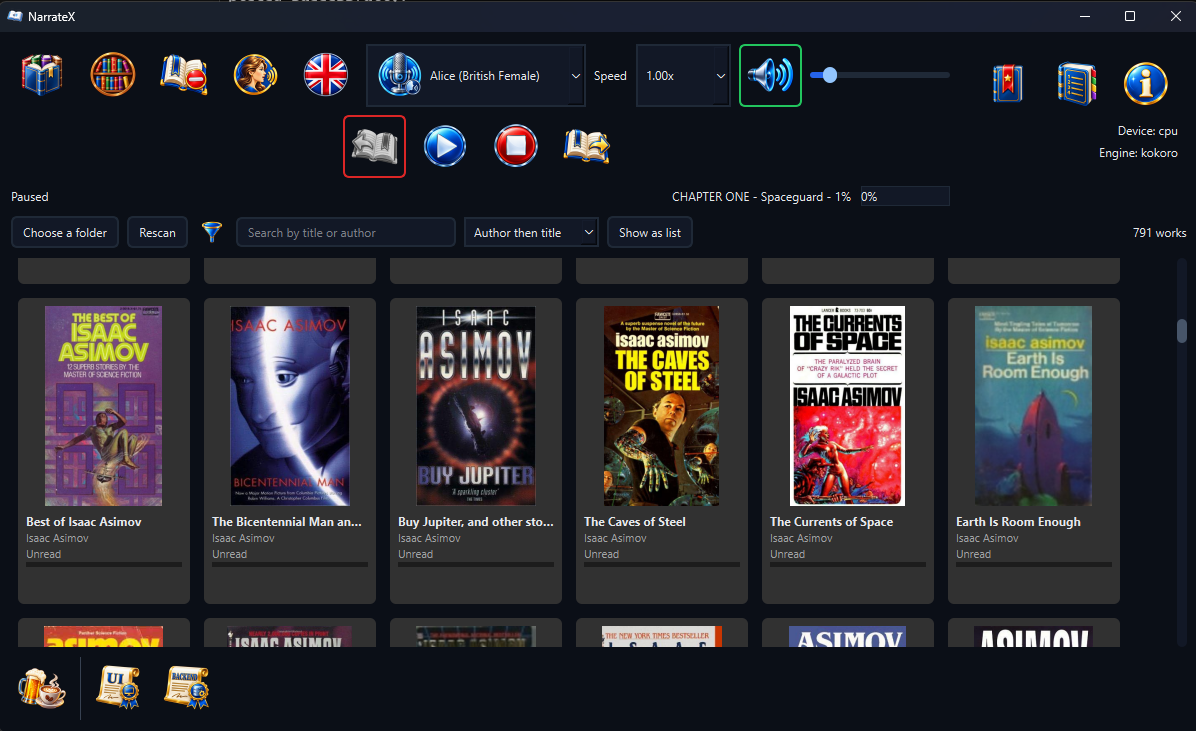
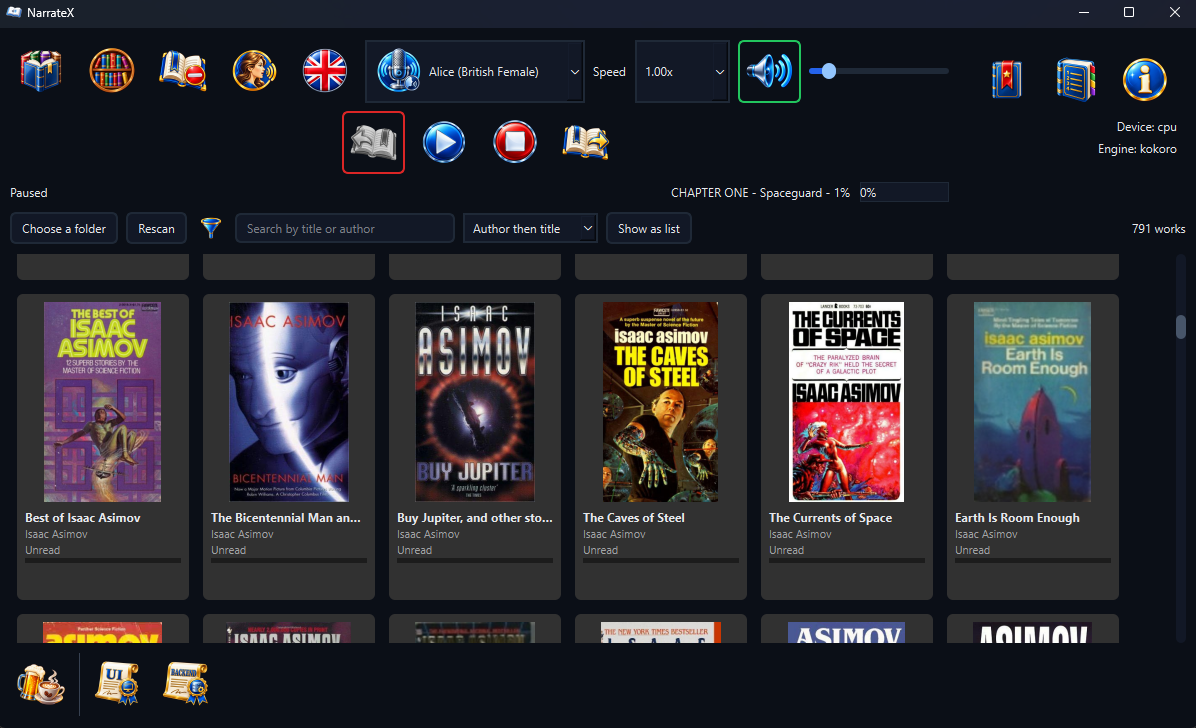
Walk the Guide through the bookshelf
The shelf button was still held out of the Guide as artwork waiting for its control, though the control has shipped. It now has its row, the shelf has a section of its own (the folder, rescan, genre filter, search, ordering and layout controls, then opening, gathering and filing books) and the filter moves into it. Speed gains the row it never had, Select book names the Kindle formats and the keyboard paragraph covers the shelf.

The existing guide test now requires the shelf picture; planting the old exclusion back makes it fail. The shelf screenshot is retaken without the stray text behind its title bar.

diff --git a/voice_reader/ui/guide_dialog.py b/voice_reader/ui/guide_dialog.py
@@ -30,10 +30,14 @@ GUIDE_MIN_HEIGHT = 560
 
 # Pictures that are not controls of their own, so the Guide does not list them:
 # the pin marks a row inside a dialog; the muted speaker is the volume button
-# showing its other state and is named in that button's row. The bookshelf is
-# here for a different reason: its artwork has arrived ahead of the control it
-# belongs to, so it leaves this set on the day the shelf gains a button.
-NOT_LISTED = frozenset({Artwork.BOOKSHELF, Artwork.PIN, Artwork.VOLUME_MUTED})
+# showing its other state and is named in that button's row.
+NOT_LISTED = frozenset({Artwork.PIN, Artwork.VOLUME_MUTED})
+
+
+def _worded(label: str, text: str) -> str:
+    """A control that wears words rather than a picture, named as it reads."""
+
+    return f"<p><b>{label}</b>: {text}</p>"
 
 
 def _img(name: Artwork) -> str:
@@ -57,11 +61,12 @@ def guide_html() -> str:
 <h2>How {APP_NAME} works</h2>
 
 <h3>Choosing what to hear</h3>
-{_row(Artwork.SELECT_BOOK, "Select book", "open an EPUB, PDF, text or Markdown file.")}
-{_row(Artwork.FILTER, "Filter by genre",
-      "on the bookshelf, show only the genres you tick. Books that state no "
-      "genre have a box of their own. Right click a book to file it under a "
-      "genre yourself, which outranks whatever its file says.")}
+{_row(Artwork.SELECT_BOOK, "Select book",
+      "open an EPUB, PDF, text or Markdown file. Kindle files open too when "
+      "Calibre is installed.")}
+{_row(Artwork.BOOKSHELF, "Show the shelf",
+      "see the books in your folders as covers; described below. Press "
+      "again to go back to the book you are reading.")}
 {_row(Artwork.REMOVE_CURRENT_BOOK, "Remove current book",
       "forget the bookmarks, resume point, ideas map and cached audio for "
       "this book. The file on disk is never touched.")}
@@ -71,6 +76,7 @@ def guide_html() -> str:
       "press to switch accents.")}
 {_row(Artwork.SELECT_VOICE, "Select voice",
       "choose the narrator. Nothing plays until one is chosen.")}
+{_worded("Speed", "how fast the narrator reads.")}
 {_row(Artwork.VOLUME_CONTROL, "Volume",
       "press to mute; the speaker is crossed out while muted. Press again for "
       "the level you had. The slider beside it sets the level.")}
@@ -90,6 +96,27 @@ that way.</p>
 {_row(Artwork.SECTIONS, "Sections", "jump to a chapter or heading of the book.")}
 {_row(Artwork.HELP, "Help", "this Guide and About.")}
 
+<h3>The bookshelf</h3>
+{_worded("Choose a folder",
+         f"pick a folder holding your books. {APP_NAME} reads it and every "
+         "folder beneath it; choose again to add another. Nothing in those "
+         "folders is ever moved, renamed or changed.")}
+{_worded("Rescan", "read the folders again after books are added or removed.")}
+{_row(Artwork.FILTER, "Filter by genre",
+      "show only the genres you tick. Books that state no genre have a box "
+      "of their own; Clear shows everything again.")}
+{_worded("Search", "show only books whose title or author holds what you type.")}
+{_worded("Order", "lay the shelf out by author then title, by title alone or "
+         "by most recently read.")}
+{_worded("Show as list", "switch between covers and a list with each book's "
+         "genres. The shelf opens the way you left it.")}
+<p>Click a book to open it. Hold <b>Ctrl</b> or <b>Shift</b> while clicking to
+gather several, then right click one of them to file them all under a genre;
+right click a single book to file just that one. What you choose outranks what
+the file says and survives a rescan. The count at the right says how many books
+are showing. While a book is being read aloud the shelf will not open another:
+pause or stop first.</p>
+
 <h3>The strip along the foot</h3>
 {_row(Artwork.DONATE, "Donate",
       f"opens a donation page in your browser. {APP_NAME} itself sends "
@@ -107,7 +134,8 @@ shows where each chapter sits in the book.</p>
 <b>Right</b> do the same along a row of buttons. <b>Enter</b> or <b>Space</b>
 presses the one ringed. <b>Down</b> opens a dropdown. On the speaker,
 <b>Up</b> and <b>Down</b> change the volume. In the text, <b>Up</b> and
-<b>Down</b> scroll.</p>
+<b>Down</b> scroll. On the shelf, the arrow keys move between books and
+<b>Enter</b> or <b>Space</b> opens the one ringed.</p>
 """
 
 

diff --git a/README.md b/README.md
@@ -158,7 +158,7 @@ enforced by structural tests at every test run. See
 
 <img width="1050" height="633" src="docs/site-images/NarrateX4.png" alt="NarrateX reading a book: the spoken word highlighted in the reading pane, the chapter spine beside it, the cover on the right and the voice picker along the top" />
 
-<img width="1050" height="642" src="docs/site-images/bookshelf.png" alt="The NarrateX bookshelf: a grid of covers with titles, authors and reading state, under the folder, rescan, genre filter, search, ordering and layout controls" />
+<img width="1050" height="639" src="docs/site-images/bookshelf.png" alt="The NarrateX bookshelf: a grid of covers with titles, authors and reading state, under the folder, rescan, genre filter, search, ordering and layout controls" />
 
 ## Install and run
 
